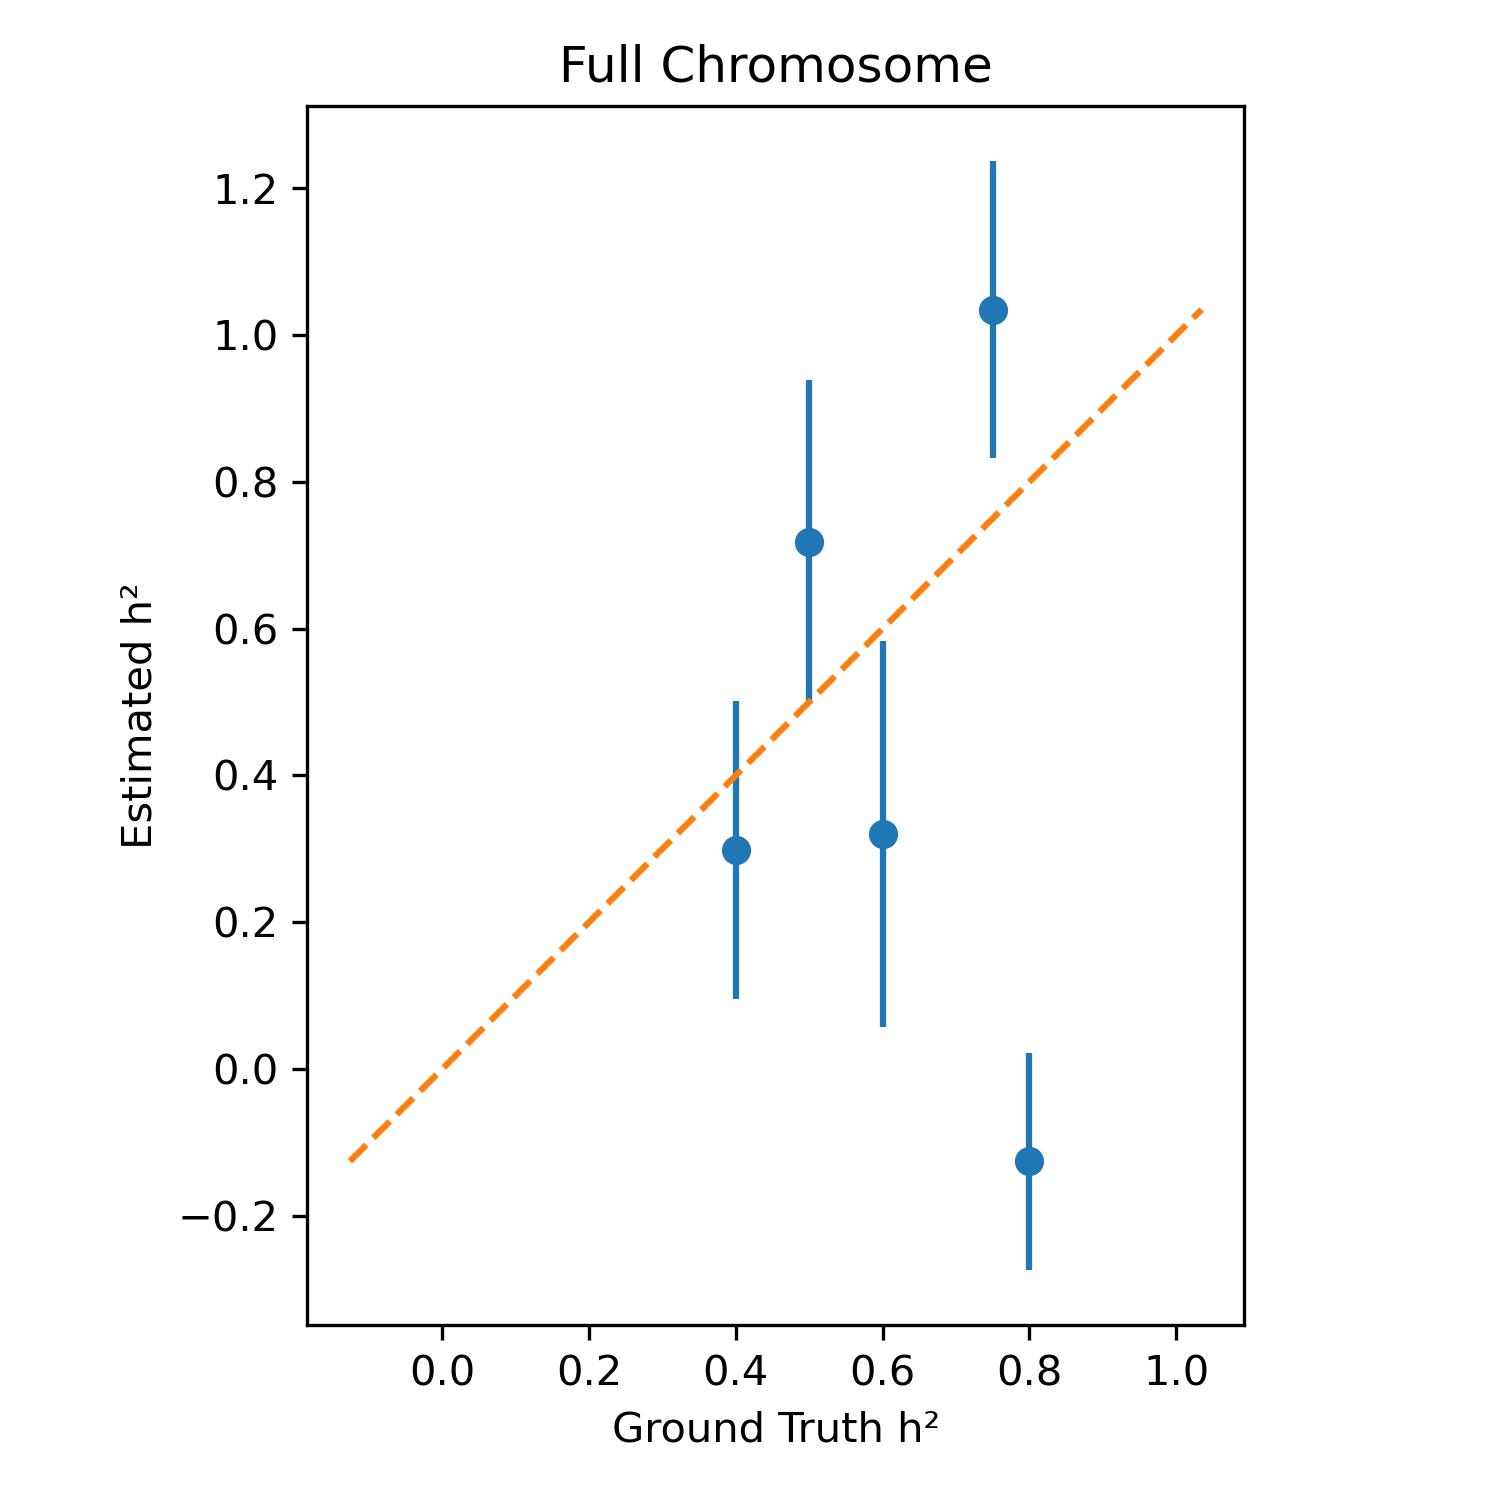
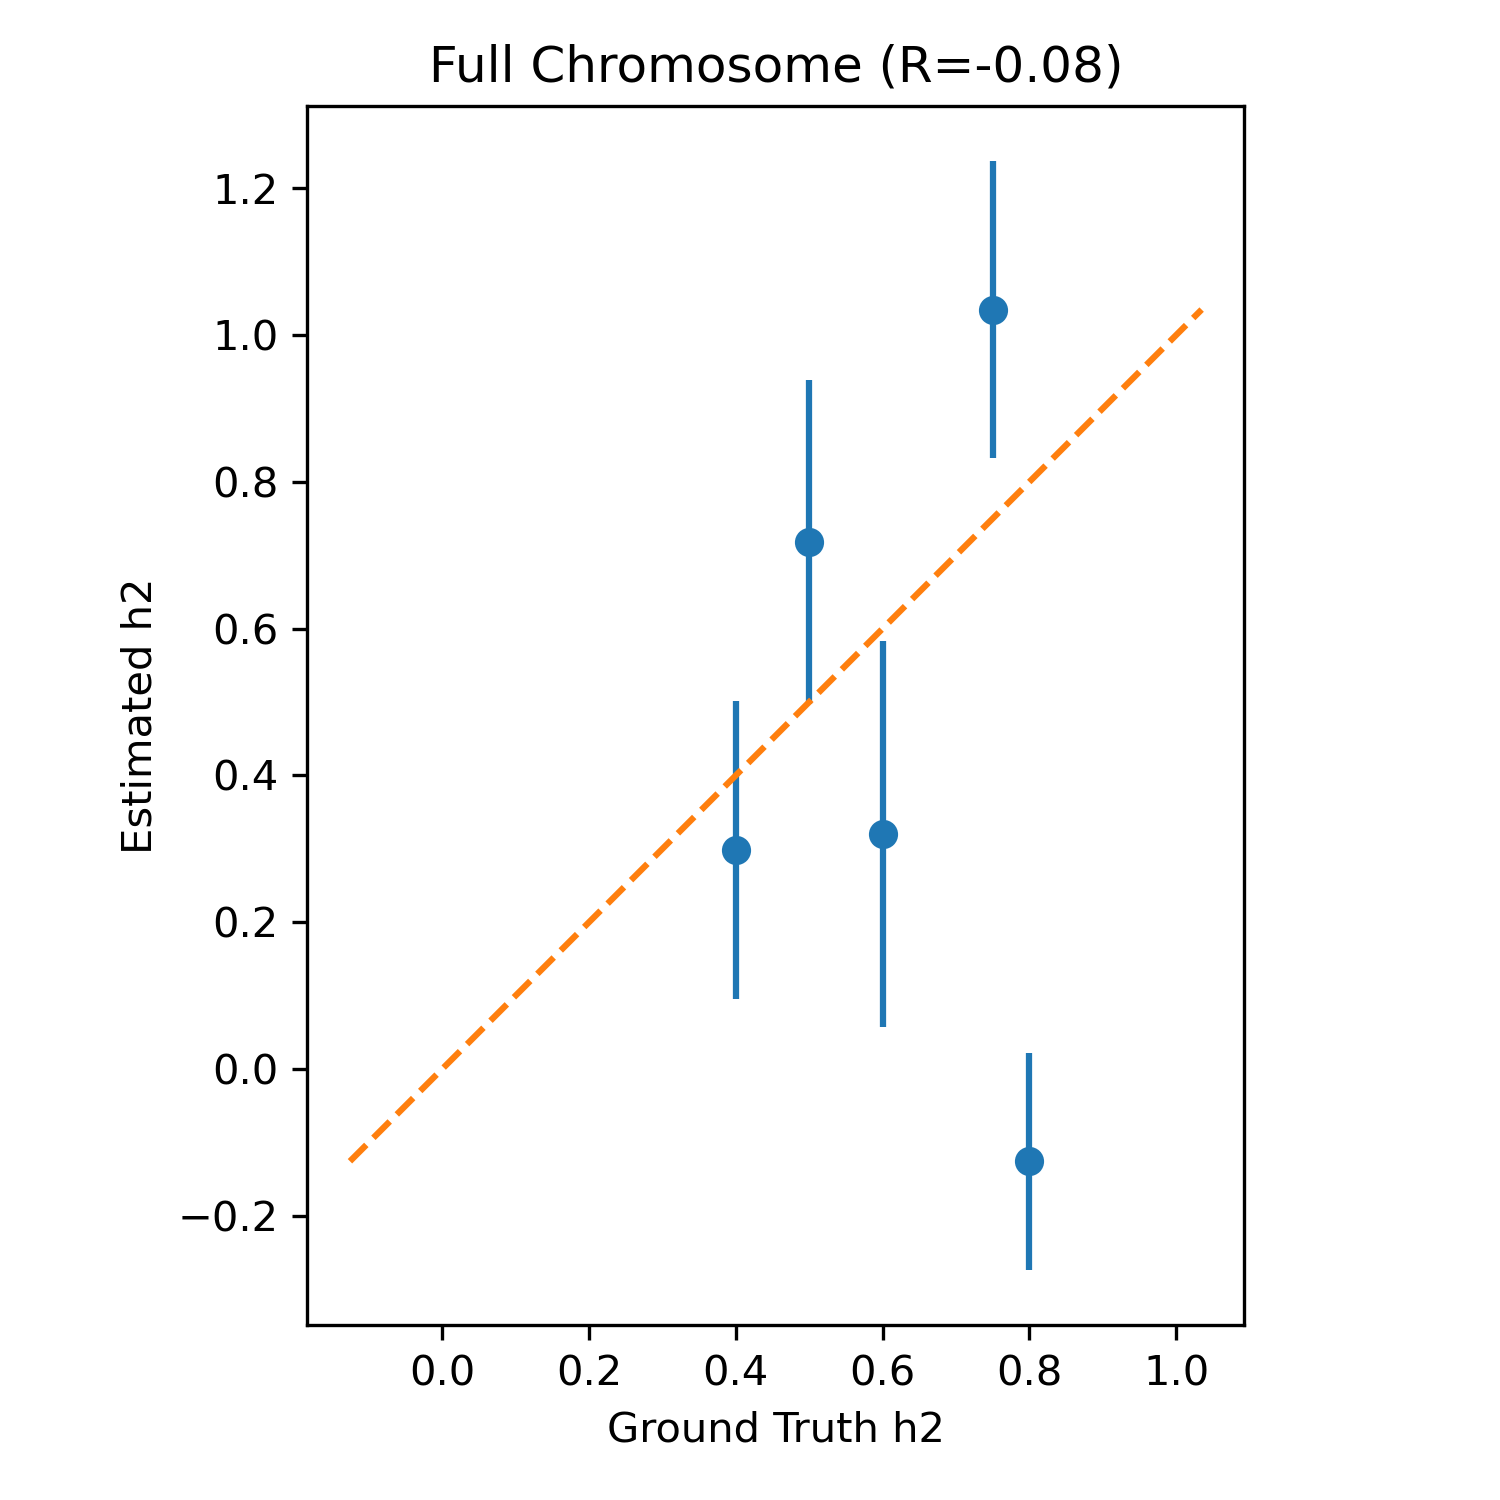
add corr to gcta scatter

Changed region(s): [[0.276, 0.0307, 0.7667, 0.0613], [0.3987, 0.92, 0.6133, 0.9813], [0.0613, 0.3987, 0.1227, 0.552]]

diff --git a/scripts/gcta/draw_scatterplots.py b/scripts/gcta/draw_scatterplots.py
@@ -19,6 +19,7 @@ df = pd.read_csv(input_tsv, sep="\t")
 df["h2_gt"] = df["trait"].map(gt_h2)
 
 # plot full chromosome
+r_chr = df["h2_gt"].corr(df["h2_full_chr"])
 fig, ax = plt.subplots(figsize=(5, 5))
 
 ax.errorbar(
@@ -35,7 +36,7 @@ ax.plot([x_min, x_max], [x_min, x_max], linestyle="--")
 
 ax.set_xlabel("Ground Truth h2")
 ax.set_ylabel("Estimated h2")
-ax.set_title("Full Chromosome")
+ax.set_title(f"Full Chromosome (R={r_chr:.2f})")
 ax.set_aspect("equal", adjustable="box")
 
 plt.tight_layout()
@@ -43,6 +44,7 @@ plt.savefig(output_full_chr_png, dpi=300)
 plt.close()
 
 # plot single loci
+r_loci = df["h2_gt"].corr(df["h2_single_loci"])
 fig, ax = plt.subplots(figsize=(5, 5))
 
 ax.errorbar(
@@ -58,7 +60,7 @@ ax.set_ylim(0, 1)
 
 ax.set_xlabel("Ground Truth h2")
 ax.set_ylabel("Estimated h2")
-ax.set_title("Single Loci")
+ax.set_title(f"Single Loci (R={r_loci:.2f})")
 ax.set_aspect("equal", adjustable="box")
 
 plt.tight_layout()
